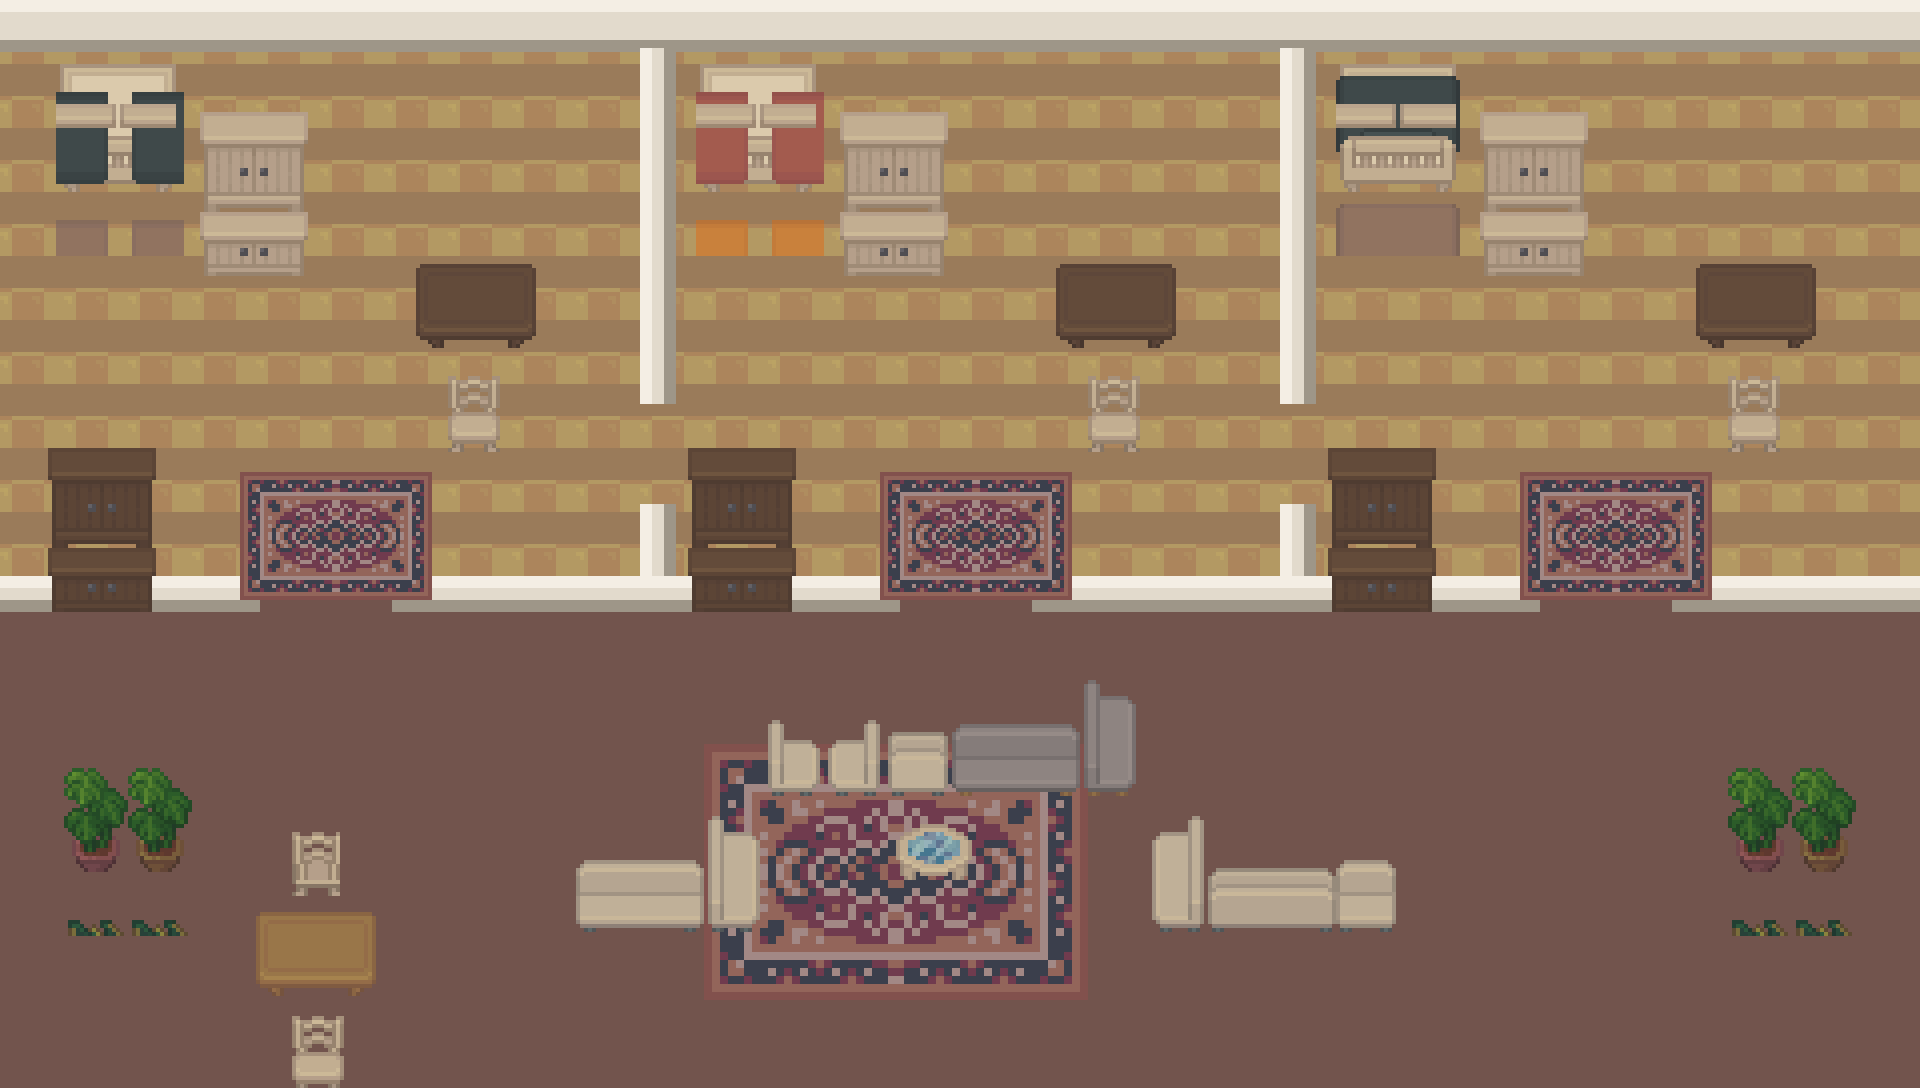
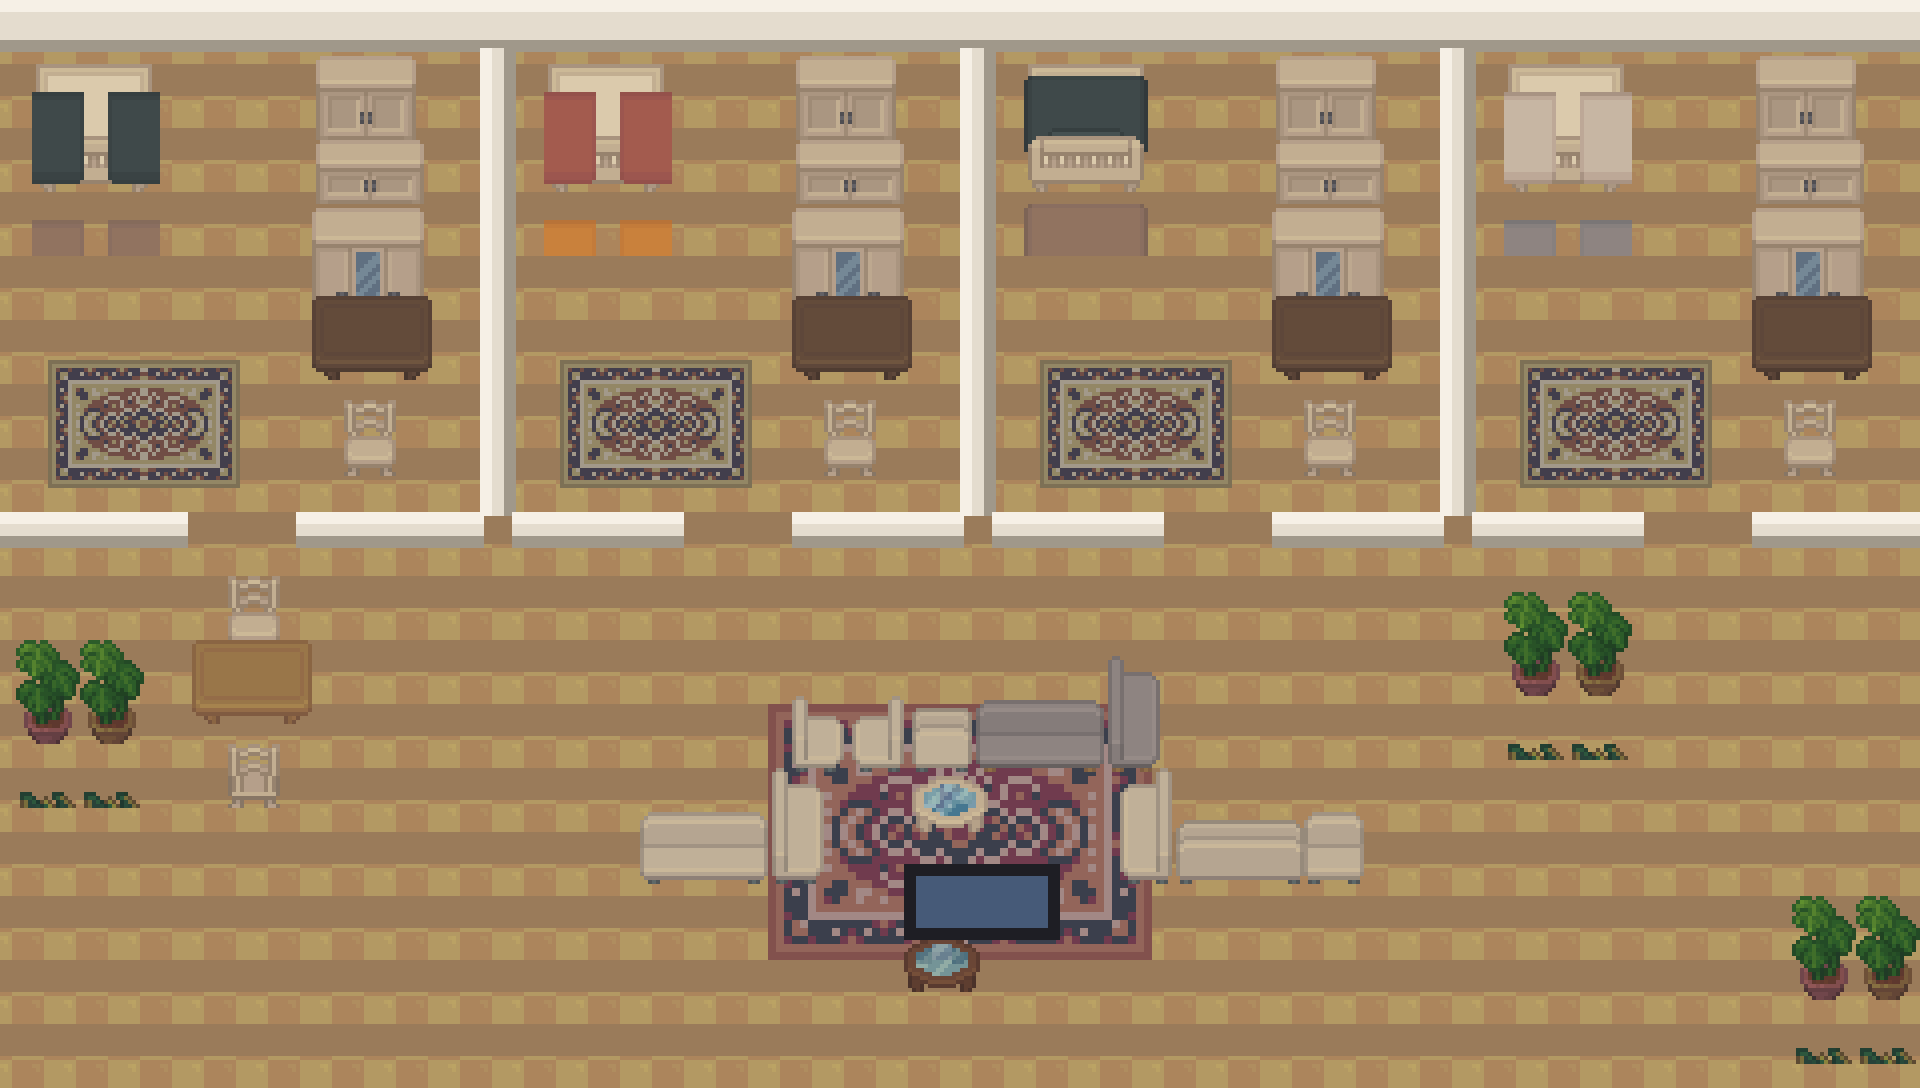
Full scene rework: top-down 3D consistency, animated river, real dorm floor plan
- All hand-drawn scenes redrawn in the same top-down oblique perspective as the tile scenes (user: concert etc. looked 2D while hangang/mart looked 3D): stages now have a top surface + front face, speaker stacks and cameras drawn with two faces, light pools on the floor instead of giant beams
- 汉江: bridge is now a proper horizontal road deck seen from above — asphalt with dashed lane lines, sidewalks, railings, piers with shading + reflection, deck lamps; river water animates (two-frame flow) via new bg2 scene layer + CSS step animation
- 宿舍: real floor plan — four private bedrooms each with ONE mirrored wardrobe, bed, desk/chair and rug; shared living room with dining set, couch circle, TV and plants
- 便利店: checkout relocated against the front-left wall (register, belt, staff, baskets) with shopping carts by the entrance; shelves and freezers rearranged to the right
- 演唱会: dark venue, dim navy LED, restrained light pools on stage, barricade, darkened seat rows, lightsticks removed entirely
- 练习室: real dumbbell racks and weights from the pack, yoga mats, speakers; 打歌舞台/综艺棚: rebuilt with risers, host desk with chairs, colored guest couches, floor tape marks, cameras, audience corner

Claude-Session: https://claude.ai/code/session_018cnFEY1npoLJdJPk9oK87k

diff --git a/src/WorldView.tsx b/src/WorldView.tsx
@@ -300,6 +300,7 @@ export default function WorldView({
 
   return (
     <div className="relative w-full h-full overflow-hidden select-none" style={{ background: sceneConfig.bg }}>
+      {(sceneConfig as any).bg2 && <div className="absolute inset-0 water-flip" style={{ background: (sceneConfig as any).bg2 }} />}
       <div className="absolute inset-0" style={{ background: 'radial-gradient(120% 80% at 50% 0%, rgba(255,240,210,0.18), transparent 55%)' }} />
       <div className="absolute left-0 right-0" style={{ top: `${BOUND.minY - 6}%`, bottom: 0, background: 'linear-gradient(180deg, rgba(0,0,0,0.05), rgba(0,0,0,0.35))' }} />
       <div className="absolute inset-0" style={{ background: sceneConfig.overlay }} />

diff --git a/src/sceneConfig.ts b/src/sceneConfig.ts
@@ -2,6 +2,7 @@
 export const SCENE_CONFIG: Record<string, {
   label: string;
   bg: string; // 暂时用渐变色，之后换成 `url(/scenes/xxx.jpg)`
+  bg2?: string;   // 第二帧（水面等动画），有则在 WorldView 交替显示
   overlay: string; // 叠加层透明度
 }> = {
   'practice_room': {
@@ -47,6 +48,7 @@ export const SCENE_CONFIG: Record<string, {
   'hangang_night': {
     label: '汉江（夜晚）',
     bg: "#0a1628 url('/scenes/hangang.png') center/cover no-repeat",
+    bg2: "url('/scenes/hangang_b.png') center/cover no-repeat",
     overlay: 'rgba(0,0,0,0.12)',
   },
   'seoul_street': {

diff --git a/src/index.css b/src/index.css
@@ -59,3 +59,7 @@ input, textarea, select {
 .scene-fade {
   animation: sceneFadeIn 0.3s ease-in-out;
 }
+
+/* 场景水面流动：双帧背景交替 */
+@keyframes waterflip { 0%, 49.9% { opacity: 0; } 50%, 100% { opacity: 1; } }
+.water-flip { animation: waterflip 1.6s step-end infinite; }
